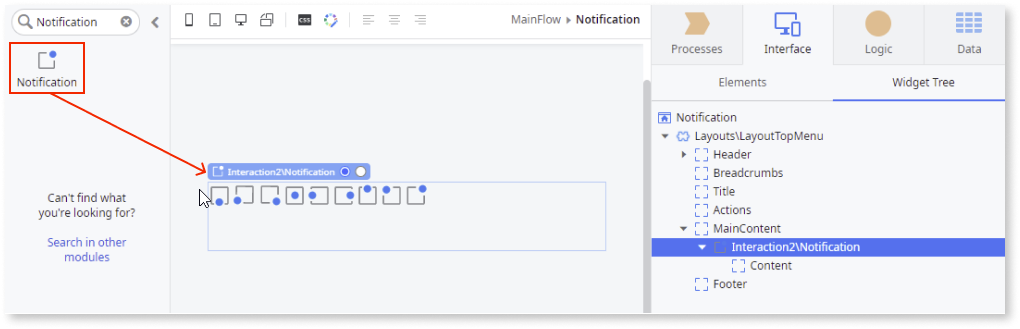
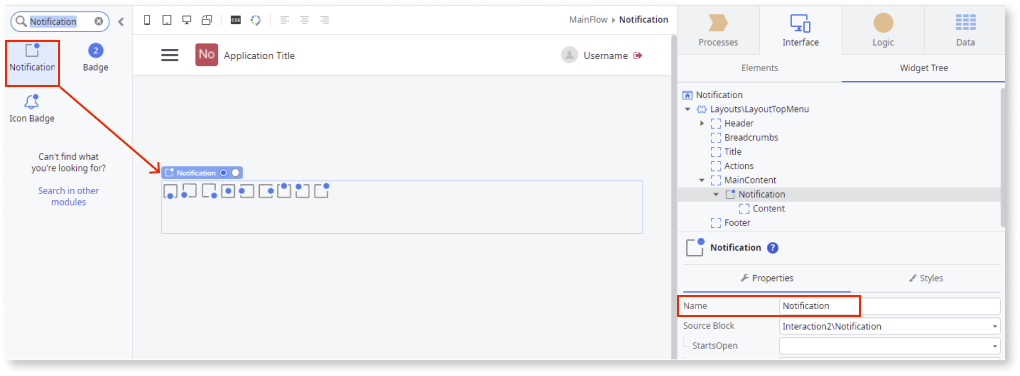
Updated screenshot

diff --git a/src/develop/ui/patterns/mobile/interaction/notification.md b/src/develop/ui/patterns/mobile/interaction/notification.md
@@ -13,7 +13,7 @@ The Notification UI Pattern is a contextual short message that provides importan
 
     The Notification widget is displayed.
 
-    ![](<images/notification-widget-ss.png>)
+    ![Notifiation widget](<images/notification-widget-ss.png>)
 
     If the UI widget doesn't display, it's because the dependency isn't added. For example, if you are using a ready-made app, it deletes unused widgets from the module. To make the widget available in your app:
 
@@ -25,7 +25,7 @@ The Notification UI Pattern is a contextual short message that provides importan
 
     1. In the Toolbox, search for the widget again.
 
-1. From the Toolbox, drag the Notification widget into the Main Content area of your application's screen.
+1. From the Toolbox, drag the Notification widget into the Main Content area of your application's screen and on the **Properties** tab, enter a **Name**.
 
     ![Drag the Notification widget to the screen](<images/notification-dragwidget-ss.png>)
 
@@ -39,7 +39,7 @@ The Notification UI Pattern is a contextual short message that provides importan
 
     ![Add Open and Close buttons](<images/notification-buttons-ss.png>)
 
-1. In this example, for the **Open** button, the **On Click** event is set to a **New Client Action** that runs the **NotificationOpen** client action. For the **Close** button, the **On Click** event is set to a **New Client Action** that runs the** NotificationClose** client action.
+1. In this example, for the **Open** button, the **On Click** event is set to a **New Client Action** that runs the **NotificationOpen** client action. For the **Close** button, the **On Click** event is set to a **New Client Action** that runs the **NotificationClose** client action.
 
     ![Define action for Open button](<images/notification-open-ss.png>)
 
@@ -57,7 +57,7 @@ After following these steps and publishing the module, you can test the pattern 
 
 | Property |  Description |
 |---|---|
-|StartsOpen(Boolean): Optional | If True, the notification is immediately visible on screen. If False, the notification is not visible on screen. The default value is False. <br/> Use one of the following actions to change the value afterwards:<ul><li>NotificationOpen</li><li>NotificationClose</li></ul> |
+|StartsOpen(Boolean): Optional | If True, the notification is immediately visible on screen. If False, the notification is not visible on screen. The default value is False. <br/> Use one of the following actions to change the value after :<ul><li>NotificationOpen</li><li>NotificationClose</li></ul> |
 |Width(Text): Optional|Set the Notification width. Accepts any kind of unit (for example, px, %, vw).|
 |Position(Position Identifier): Optional|Set where the notification appears on the screen. The predefined options are as follows:<ul><li>Bottom</li><li>BottomLeft</li><li>BottomRight</li><li>Center</li><li>Left</li><li>Right</li><li>Top</li><li>TopLeft</li><li>TopRight</li></ul><br/>Examples<ul><li>``Entities.Position.Right`` - The notification is displayed on the right side of the screen.</li><li>``Entities.Position.Bottom`` - The notification is displayed on the bottom of the screen.</li>|
 |InteractToClose(Boolean): Optional|If True, the notification closes when the notification is clicked. |
